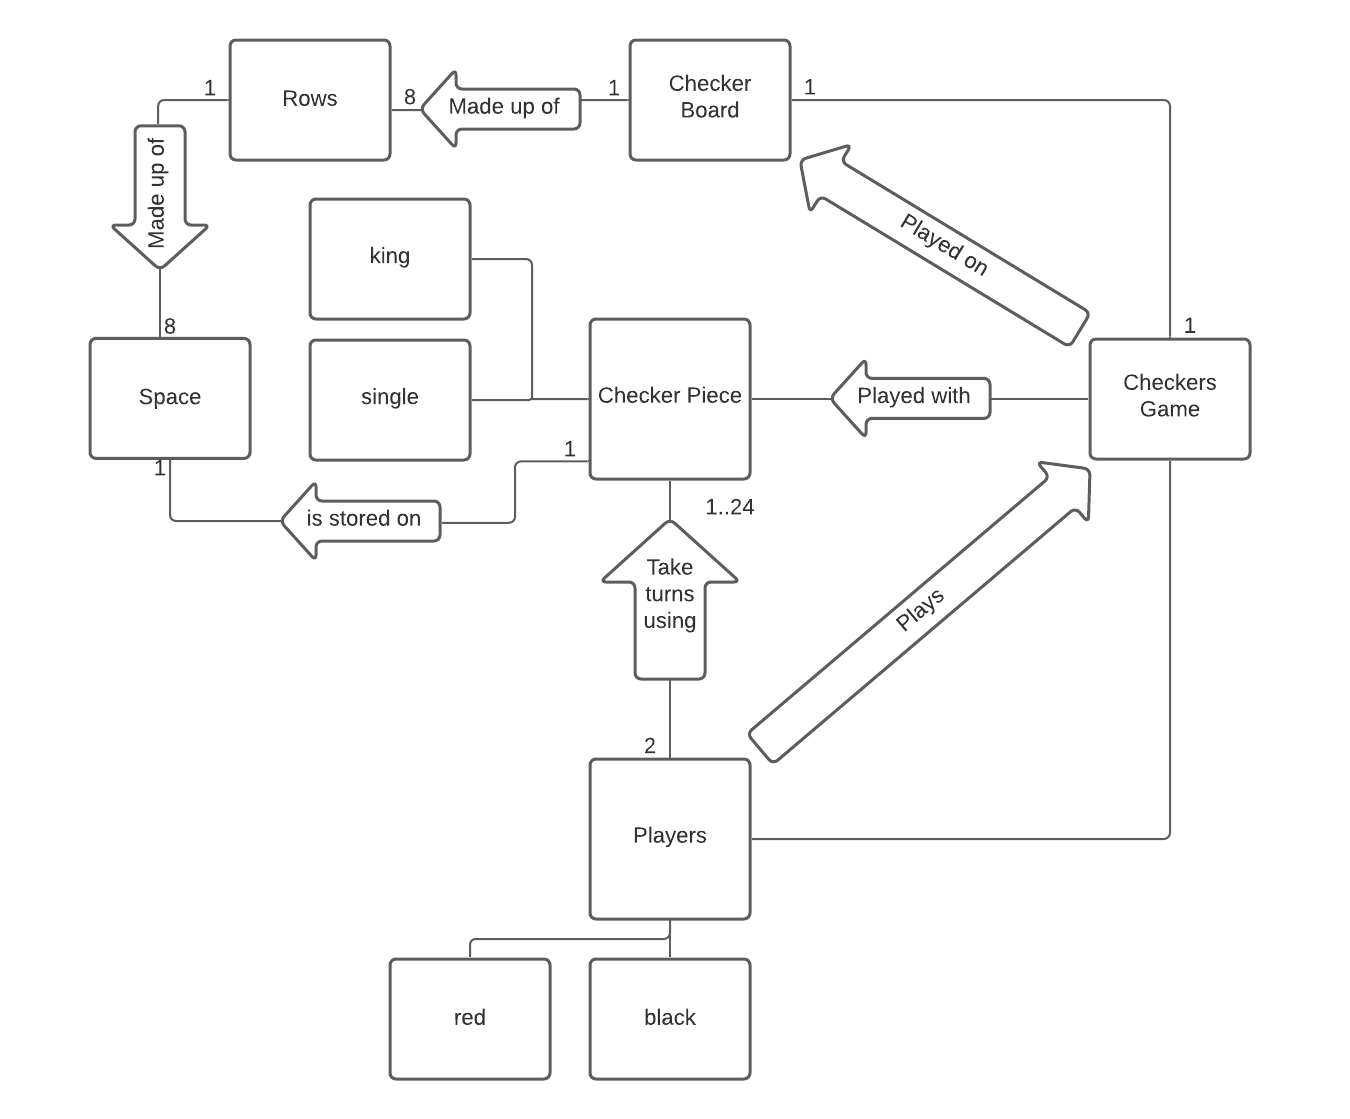
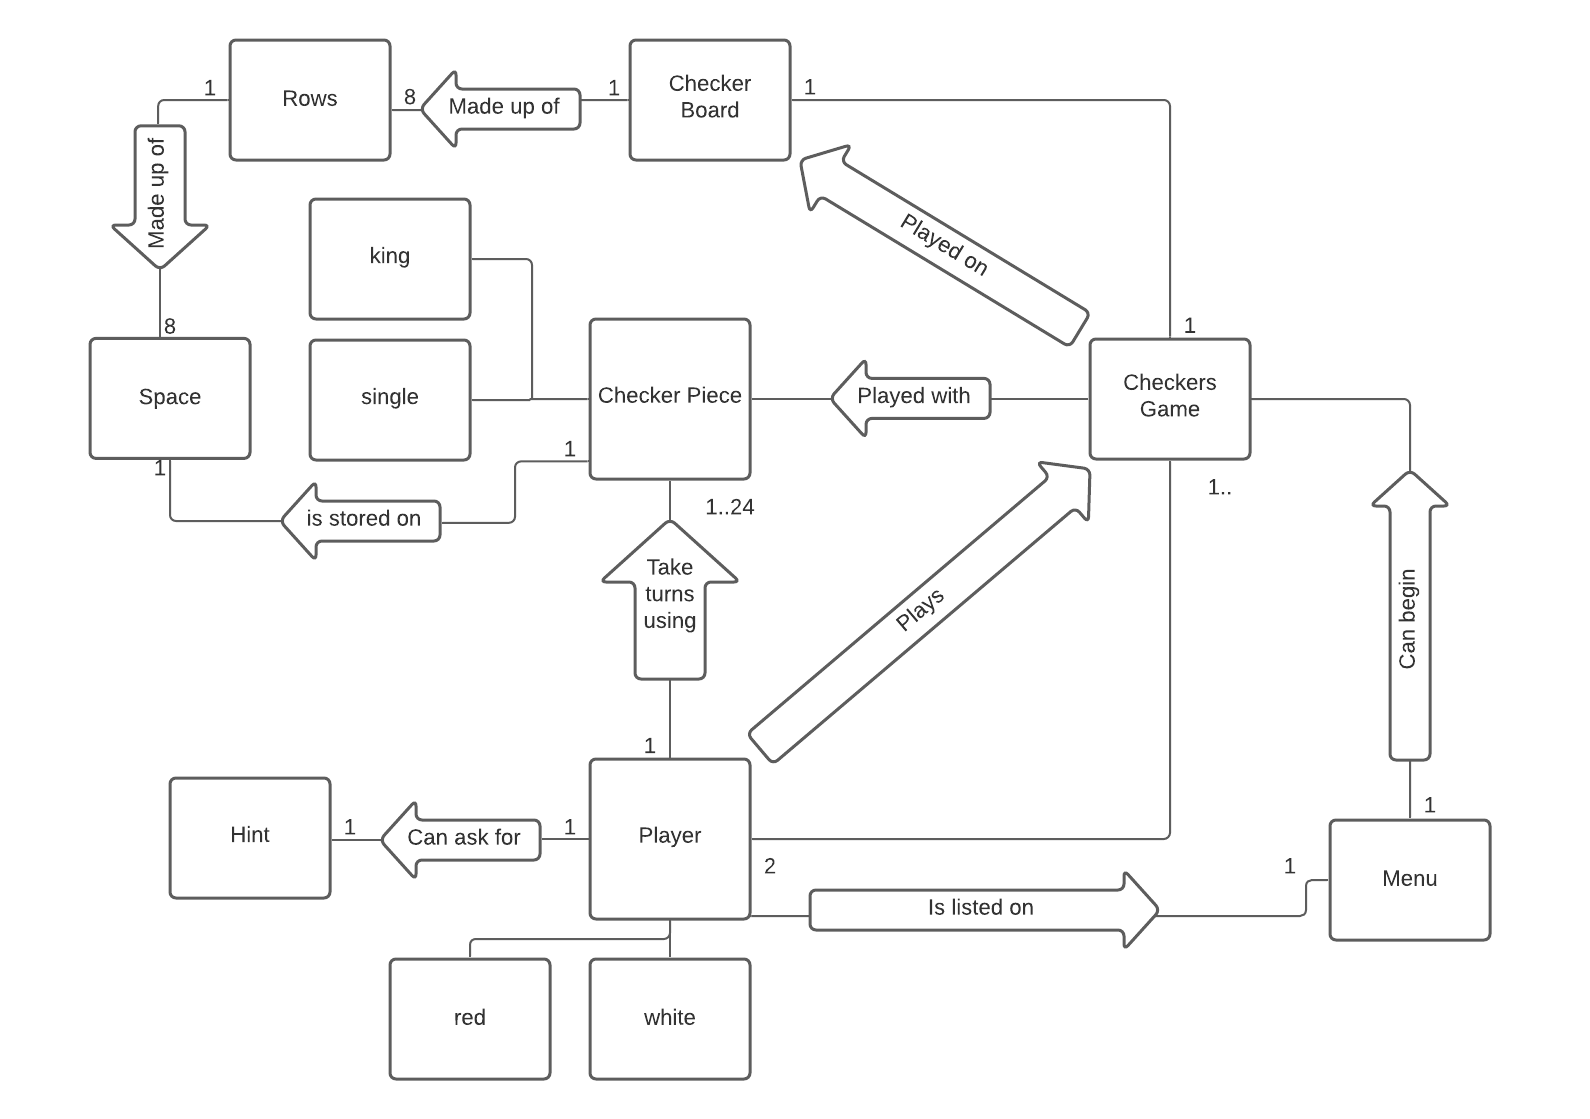
Completed code metrics and UI section, need to do unit/acceptance testing section, UPDATE EXCEL SHEET!

diff --git a/docs/DesignDoc.md b/docs/DesignDoc.md
@@ -1,7 +1,7 @@
 ---
 geometry: margin=1in
 ---
-# PROJECT Design Documentation
+# Web Checkers Design Documentation
 
 ## Team Information
 * Team name: thePurpleNarwhals
@@ -55,16 +55,17 @@ checkers and have the option to resign during the game.
 * The Player can start multiple games at the same time and switch between the games.
 
 
-
 ## Application Domain
 
 This section describes the application domain.
 
 ![The WebCheckers Domain Model](domain-model.png)
 
-A Player will play a Checkers game, making the move using the pieces. The Game
-has a Board for the game to be played on. The Board is made up of Rows and Spaces, which
-the pieces will be stored on.
+A list of Players will be in a menu after signing in. A Player will play a Checkers game,
+making the move using the pieces. The Game has a Board for the game to be played on. The
+Board is made up of Rows and Spaces, which the pieces will be stored on. The Player can then make
+a Move to progress the game. A Player can play multiple games at the same time and also get a hint
+during the game.
 
 ## Architecture and Design
 
@@ -113,12 +114,25 @@ play the game. All routes created inherit from the `Route` interface.
 The user starts at the home route, then `GET /signin` is called to allow
 the user to log in. After a successful log-in, the user is taken back to the homepage, 
 where `GET /GameRoute` is called when a Player clicks on another Player to begin the game.
-When a move is made, `POST /ValidateMove` is called which will verify the move is legal.
-If the move is legal and the submit button is pressed, then `POST /SubmitTurn` is called,
-which will update the board and allow the opponent to move. This process repeats until the
-game is over.
+
+In the Game, if it is your turn, when a move is made, `POST /ValidateMove` is called which will
+verify the move is legal. If the move is legal and the submit button is pressed, then `POST
+/SubmitTurn` is called, which will update the board and allow the opponent to move. This process
+repeats until the game is over. Figure 4 shows the sequence diagram of `PostValidateMoveRoute`.
+
 ![Sequence Diagram for PostValidateMoveRoute](validateMoveSD.png)
 
+If a move is made and the Player wants to undo the move, then `PostBackupMoveRoute` is called, which
+puts the board back in its previous state. If the Player wants a hint, then `PostMakeHintRoute` is called,
+which will generate the hint and return it to the board. Figure 5 shows the connection of these
+routes.
+
+![Statechart of making a turn](myTurn-statechart.png)
+
+If it is not your turn, then the page will continuously refresh until the turn updates. This is done
+by calling `PostCheckTurnRoute` every 5 seconds to refresh the page. If it is the end of the game, then
+`PostResignGameRoute` is called to end the game, which updates the Game page and hides all buttons except
+the button to exit the game.
 
 ### Application Tier
 
@@ -134,21 +148,22 @@ When a user successfully signs in, they now become a `Player` in the lobby. When
 the players start a game, the `Boardview` represents the board, which consists of `Row`s
 and `Space`s, which the `Piece`s are then placed on. A `GameModel` is also used to represent one game.
 When a move is made on the board, a `Move` is created, which contains the start and end `Position` of 
-the piece moved. The `ValidateMove` class is then used to verify whether the move was valid.
+the piece moved. The `ValidateMove` class is then used to verify whether the move was valid. If the user requests
+it, a hint can be made using `MakeHint`.
+
 ![UML Diagram for the checkers board](boardUML.png)
 
 
-
 ### Design Improvements
-
-Discuss improvements and talk about code metrics
 
 While Object-Oriented principles are followed, the use and consistency of them
 are not apparent throughout the architecture. The Law of Demeter, in particular, is
 a principle that could be improved throughout the design. In addition, there are some
 classes that have been replaced with new classes, but have not been removed from the architecture.
 This causes issues with coupling and can be fixed by replacing the obsolete classes with their successor
-in the design, as well as implementing more abstraction so the issue can be avoided in the future.
+in the design, as well as implementing more abstraction so the issue can be avoided in the future. In addition,
+refactoring can be done to separate concerns within the main tiers. Classes within the tiers should be put into
+packages to separate classes that focus on different aspects of the program.
 
 In addition, the code metrics yield some areas of improvement across multiple categories. The lines of code
 metric show that each class has at most 139 lines of code, with one exception. `ValidateMove` has 238
@@ -158,8 +173,11 @@ the classes. This is due to the complexity of the methods involved in the classe
 the methods within the class or breaking up the responsibility of the class in to smaller classes. The Chidamber-Kemerer
 metric show that `ValidateMove` has a high method complexity relative to the rest of the classes. In addition, the classes
 have good cohesion with each other. The Javadoc metric show that comments are sparse throughout the project and could be
-improved upon. The Martin packaging metrics show that the UI tier has a lot of calls from classes that are outside the package
-and the Model tier has methods that are called from outside the package.
+improved upon. The Martin packaging metrics show that the UI tier calls from classes that are outside the package
+and the Model tier has methods that are called from outside the package. This shows that data from the Model tier is exchanged
+heavily with the UI tier. In addition, the application tier has coupling with the other tiers. The number of calls can be
+reduced by creating controller classes in each package that will handle any data that must be communicated between
+packages. This will funnel the transfer of data and reduce coupling between the packages.
 
 
 ## Testing
